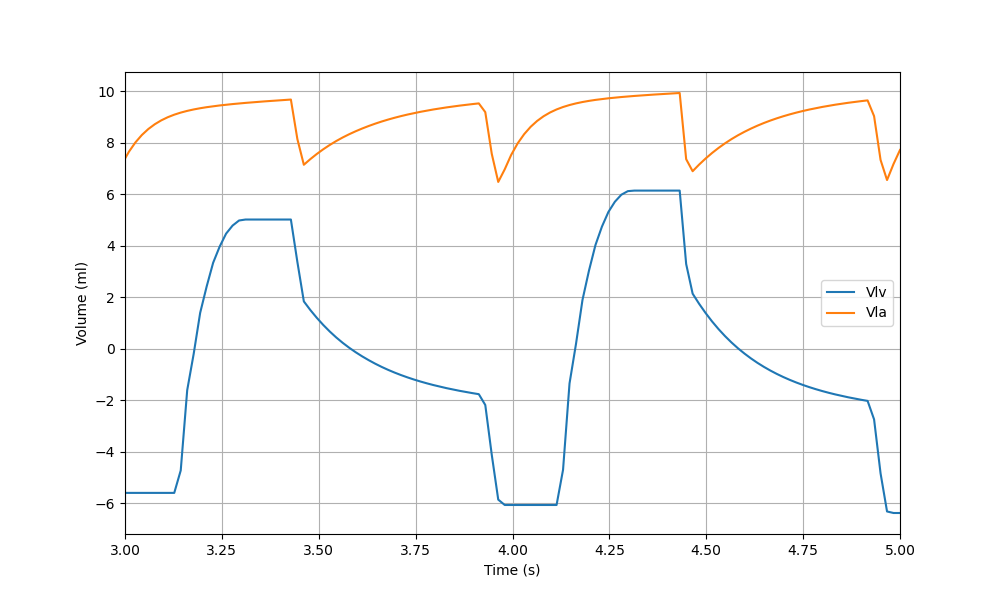
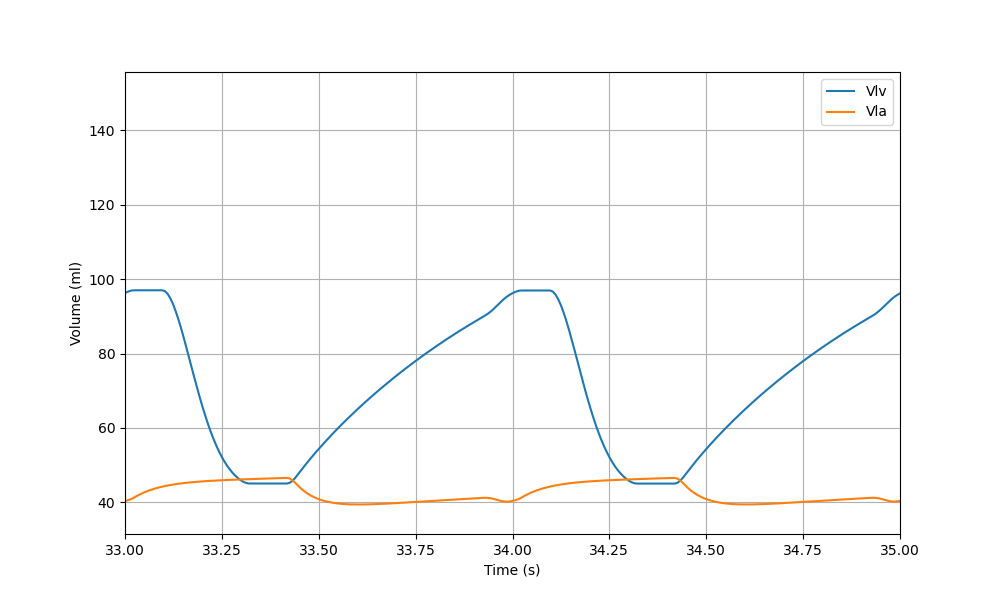
possible implementation

diff --git a/newTwoChamber.py b/newTwoChamber.py
@@ -1,0 +1,301 @@
+# shi_model.py
+
+import numpy as np
+import matplotlib.pyplot as plt
+from assimulo.problem import Implicit_Problem
+from assimulo.solvers.sundials import IDA
+
+def elastance_LV(t, Emin_lv, Emax_lv, τ_es_lv, τ_ed_lv):
+
+    T_cycle = 1.0  
+    t_in_cycle = (t % T_cycle)
+
+    if t_in_cycle <= τ_es_lv:
+        # systolic rise
+        E_p = 0.5 * (1.0 - np.cos(np.pi * (t_in_cycle / τ_es_lv)))
+        dE_p = 0.5 * (np.pi / τ_es_lv) * np.sin(np.pi * (t_in_cycle / τ_es_lv))
+    elif t_in_cycle <= τ_ed_lv:
+        # early diastolic fall
+        x = (t_in_cycle - τ_es_lv) / (τ_ed_lv - τ_es_lv)
+        E_p = 0.5 * (1.0 + np.cos(np.pi * x))
+        dE_p = 0.5 * (np.pi / (τ_ed_lv - τ_es_lv)) * -np.sin(np.pi * x)
+    else:
+        E_p = 0.0
+        dE_p = 0.0
+
+    E = Emin_lv + (Emax_lv - Emin_lv)*E_p
+    dE = (Emax_lv - Emin_lv)*dE_p
+    return E, dE
+
+
+def elastance_LA(t, Emin_la, Emax_la, τ_es_la, τ_ed_la, Eshift_la):
+
+    T_cycle = 1.0
+    # shift the time as in: tᵢ_la = rem(t + (1 - Eshift_la)*τ, τ)
+    t_shifted = (t + (1.0 - Eshift_la)*T_cycle) % T_cycle
+
+    if t_shifted <= τ_es_la:
+        E_p  = 0.5*(1.0 - np.cos(np.pi * (t_shifted / τ_es_la)))
+        dE_p = 0.5*(np.pi / τ_es_la)*np.sin(np.pi * (t_shifted / τ_es_la))
+    elif t_shifted <= τ_ed_la:
+        x    = (t_shifted - τ_es_la)/(τ_ed_la - τ_es_la)
+        E_p  = 0.5*(1.0 + np.cos(np.pi * x))
+        dE_p = 0.5*(np.pi/(τ_ed_la - τ_es_la)) * -np.sin(np.pi * x)
+    else:
+        E_p  = 0.0
+        dE_p = 0.0
+
+    E  = Emin_la + (Emax_la - Emin_la)*E_p
+    dE = (Emax_la - Emin_la)*dE_p
+    return E, dE
+
+class ShiModel:
+
+
+    def __init__(self, params):
+
+        self.v0_lv, self.Emin_lv, self.Emax_lv, self.tau_es_lv, self.tau_ed_lv, \
+        self.v0_la, self.Emin_la, self.Emax_la, self.tau_es_la, self.tau_ed_la, \
+        self.CQ_AV,  self.CQ_MV,  self.Csas,    self.Rsas,   self.Lsas, \
+        self.Csat,   self.Rsat,   self.Lsat,   self.Rsar,   self.Rscp, \
+        self.Csvn,   self.Rsvn   = params
+
+        # Shift for LA was 0.92 in your snippet
+        self.Eshift_la = 0.92
+
+    def res(self, t, y, ydot):
+
+
+        # Unpack states
+        Plv   = y[0]
+        Pla   = y[1]
+        Vlv   = y[2]
+        Vla   = y[3]
+        Psas  = y[4]
+        Qsas  = y[5]
+        Psat  = y[6]
+        Qsat  = y[7]
+        Psvn  = y[8]
+        Qsvn  = y[9]
+        Qav   = y[10]  # algebraic
+        Qmv   = y[11]  # algebraic
+
+        # Unpack derivatives
+        dPlv  = ydot[0]
+        dPla  = ydot[1]
+        dVlv  = ydot[2]
+        dVla  = ydot[3]
+        dPsas = ydot[4]
+        dQsas = ydot[5]
+        dPsat = ydot[6]
+        dQsat = ydot[7]
+        dPsvn = ydot[8]
+        dQsvn = ydot[9]
+        # ydot[10], ydot[11] are for Qav, Qmv → 0 for an index-1 DAE
+
+        # Time-varying elastances
+        E_LV, dE_LV = elastance_LV(
+            t, self.Emin_lv, self.Emax_lv,
+            self.tau_es_lv, self.tau_ed_lv
+        )
+        E_LA, dE_LA = elastance_LA(
+            t, self.Emin_la, self.Emax_la,
+            self.tau_es_la, self.tau_ed_la, self.Eshift_la
+        )
+
+        # if Plv > Psas:
+        #     Qav_calc = self.CQ_AV * np.sqrt(Plv - Psas)
+        # else:
+        #     Qav_calc = 0.0
+
+        # if Pla > Plv:
+        #     Qmv_calc = self.CQ_MV * np.sqrt(Pla - Plv)
+        # else:
+        #     Qmv_calc = 0.0
+        # Valve flows (algebraic, linear resistive model)
+        Qav_calc = max((Plv - Psas) / self.CQ_AV, 0.0)  # CQ_AV becomes Zao (aortic valve resistance)
+        Qmv_calc = max((Pla - Plv) / self.CQ_MV, 0.0)   # CQ_MV becomes Rmv (mitral valve resistance)
+
+
+        # Build the residual vector
+        res = np.zeros(12)
+
+        res[0] = dPlv - ( (Qmv - Qav)*E_LV + dE_LV*(Vlv - self.v0_lv) )
+
+        res[1] = dPla - ( (Qsvn - Qmv)*E_LA + dE_LA*(Vla - self.v0_la) )
+
+        res[2] = dVlv - ( Qmv - Qav )
+
+        res[3] = dVla - ( Qsvn - Qmv )
+
+        res[4] = dPsas - ( (Qav - Qsas)/self.Csas )
+
+        res[5] = dQsas - ( (Psas - Psat - self.Rsas*Qsas)/self.Lsas )
+
+        res[6] = dPsat - ( (Qsas - Qsat)/self.Csat )
+
+        res[7] = dQsat - ( (Psat - Psvn - (self.Rsat + self.Rsar + self.Rscp)*Qsat)/self.Lsat )
+
+        res[8] = dPsvn - ( (Qsat - Qsvn)/self.Csvn )
+
+        res[9] = dQsvn - ( (dPsvn - dVla)/self.Rsvn )
+
+        res[10] = Qav - Qav_calc
+
+        res[11] = Qmv - Qmv_calc
+
+        return res
+
+def baseline_run_and_plot():
+
+    params = [
+        10.0,     # v0_lv 
+        0.1,      # Emin_lv
+        2.5,      # Emax_lv
+        0.3,      # τes_lv
+        0.45,     # τed_lv
+        10.0,     # v0_la 
+        0.15,     # Emin_la
+        0.25,     # Emax_la
+        0.045,    # τes_la
+        0.09,     # τed_la
+        0.033,    # Zao (aortic valve resistance)
+        0.06,     # Rmv (mitral valve resistance)
+        0.08,     # Csas
+        0.06,     # Rsas
+        6.2e-5,   # Lsas
+        1.6,      # Csat
+        0.05,     # Rsat
+        0.0017,   # Lsat
+        0.5,      # Rsar
+        0.52,     # Rscp
+        20.5,     # Csvn
+        0.075     # Rsvn
+    ]
+
+    y0 = np.array([
+        10.0,    # Plv
+        8.0,     # Pla
+        150.0,   # Vlv
+        40.0,    # Vla
+        100.0,    # Psas
+        0.0,     # Qsas
+        100.0,    # Psat
+        0.0,     # Qsat
+        5.0,     # Psvn
+        0.0,     # Qsvn
+        0.0,     # Qav
+        0.0      # Qmv
+    ])
+
+
+    ydot0 = np.zeros_like(y0)
+
+    model = ShiModel(params)
+
+    problem = Implicit_Problem(model.res, y0, ydot0, t0=0.0)
+    problem.nroots = 0  
+
+    algvar = np.ones(12, dtype=int)
+    algvar[10] = 0
+    algvar[11] = 0
+    problem.algvar = algvar
+
+
+    solver = IDA(problem)
+    solver.make_consistent('IDA_YA_YDP_INIT')
+    solver.report_continuously = True
+    solver.atol = 1e-5
+    solver.rtol = 1e-5
+    solver.maxsteps = 5000
+    solver.maxh = 0.001
+    solver.maxord = 2
+    solver.display_progress = True
+
+    tfinal = 35.0
+    save_times = np.linspace(0, tfinal, 5000)
+    t_out, y, yd_vals = solver.simulate(tfinal, ncp_list=save_times)
+
+    t_out = np.array(t_out)
+    y = np.array(y)
+
+    Plv = y[:, 0]
+    Pla = y[:, 1]
+    Vlv = y[:, 2]
+    Vla = y[:, 3]
+    Psas = y[:, 4]
+    Qsas = y[:, 5]
+    Psat = y[:, 6]
+    Qsat = y[:, 7]
+    Psvn = y[:, 8]
+    Qsvn = y[:, 9]
+    Qav = y[:, 10]
+    Qmv = y[:, 11]
+
+    # # Plot: 
+    # #  - left ventricle pressure (Plv = y[:,0])
+    # #  - left atrium pressure (Pla = y[:,1])
+    # #  - LV volume (Vlv = y[:,2])
+    # fig1 = plt.figure()
+    # plt.title("Left Ventricle Pressure")
+    # plt.plot(t_out, y[:, 0])
+    # plt.xlabel("time (s)")
+    # plt.ylabel("Plv (mmHg)")
+
+    # fig2 = plt.figure()
+    # plt.title("Left Atrium Pressure")
+    # plt.plot(t_out, y[:, 1])
+    # plt.xlabel("time (s)")
+    # plt.ylabel("Pla (mmHg)")
+
+    # fig3 = plt.figure()
+    # plt.title("Left Ventricle Volume")
+    # plt.plot(t_out, y[:, 2])
+    # plt.xlabel("time (s)")
+    # plt.ylabel("Vlv (mL)")
+
+    # plt.show()
+
+    plt.plot(t_out, Plv, label='Plv')
+    plt.plot(t_out, Pla, label='Pla')
+    plt.plot(t_out, Psas, label='Psas')
+    plt.plot(t_out, Psat, label='Psat')
+    plt.plot(t_out, Psvn, label='Psvn')
+    plt.xlabel('Time (s)')
+    plt.ylabel('Pressure (mmHg)')
+    plt.legend()
+    plt.grid(True)
+    plt.xlim(33, 35)
+    plt.show()
+    
+    #plot volumes
+    plt.figure(figsize=(10, 6))
+    plt.plot(t_out, Vlv, label='Vlv')
+    plt.plot(t_out, Vla, label='Vla')
+    plt.xlabel('Time (s)')
+    plt.ylabel('Volume (ml)')
+    plt.legend()
+    plt.grid(True)
+    plt.xlim(33, 35)
+    plt.show()
+    
+    #plot flows
+    plt.figure(figsize=(10, 6))
+    plt.plot(t_out, Qsas, label='Qsas')
+    plt.plot(t_out, Qsat, label='Qsat')
+    plt.plot(t_out, Qsvn, label='Qsvn')
+    plt.plot(t_out, Qav, label='Qav')
+    plt.plot(t_out, Qmv, label='Qmv')
+    plt.xlabel('Time (s)')
+    plt.ylabel('Flow (ml/s)')
+    plt.legend()
+    plt.grid(True)
+    plt.xlim(33, 35)
+    plt.show()
+
+    return t_out, y, yd_vals
+
+
+
+if __name__ == "__main__":
+    t, y, yd = baseline_run_and_plot()

diff --git a/orginal_surrogate.py b/orginal_surrogate.py
@@ -12,16 +12,12 @@ from surrogate import build_pce_surrogates_openturns, evaluate_pce_model_opentur
 # 3) Filter the original data only at plotting time.
 ###################################
 
-# Step 1: Generate simulation data
 p = [0.3, 0.45, 0.06, 0.033, 1.11, 1.13, 11.0, 1.5, 0.03]  # Baseline parameters
 simulation_end_time = 35  # Simulation duration
 
 # Generate full data (0–35s)
 X_train_full, Y_train_list_full, t_values_full = baseline_run_and_plot()
 
-###################################
-# Step 2: Downsample the data to create training data for the surrogate
-###################################
 
 num_samples = 500  # Choose how many samples for training
 
@@ -57,9 +53,9 @@ Y_train_list = [
     Y_train_list_full[2][indices],  # Vlv
 ]
 
-###################################
-# Step 3: Build the PCE surrogate with the training data
-###################################
+
+# Build the PCE surrogate with the training data
+
 
 polynomial_degree = 3  # Adjust as needed
 meta_models, distribution = build_pce_surrogates_openturns(
@@ -67,25 +63,23 @@ meta_models, distribution = build_pce_surrogates_openturns(
     polynomial_degree=polynomial_degree
 )
 
-###################################
-# Step 4: Evaluate surrogate model predictions on new param sets (demo)
-###################################
+# Evaluate surrogate model predictions on new param sets (demo)
 
 X_test = X_train[:100, :]  # Or generate new random param sets
 predictions = evaluate_pce_model_openturns(meta_models, X_test)
 
-###################################
-# Step 5: Filter the ORIGINAL data (not the downsampled) for plotting (33-35s)
-###################################
+
+# Filter the ORIGINAL data (not the downsampled) for plotting (33-35s)
+
 
 time_mask = (t_values_full >= 33) & (t_values_full <= 35)
 filtered_t = t_values_full[time_mask]
 filtered_pLV = Y_train_list_full[0][time_mask]
 filtered_Vlv = Y_train_list_full[2][time_mask]
 
-###################################
-# Step 6: Plot results in the 33–35s range
-###################################
+
+# Plot results in the 33–35s range
+
 
 # a) pLV
 plt.figure(figsize=(10, 5))

diff --git a/twoChamber.py b/twoChamber.py
@@ -162,7 +162,6 @@ class TwoChamberModel:
         return (Emax_la - Emin_la)*dE_pla
 
 def run_minimal():
-    x = 6.2e-5
     p = [
         5.0,  # v0_lv
         0.1,  # Emin_lv
@@ -178,7 +177,7 @@ def run_minimal():
         400.0,# CQ_MV
         0.08, # Csas
         0.06,# Rsas
-        x,# Lsas
+        6.2e-5,# Lsas
         1.6,  # Csat
         0.05, # Rsat
         0.0017,# Lsat